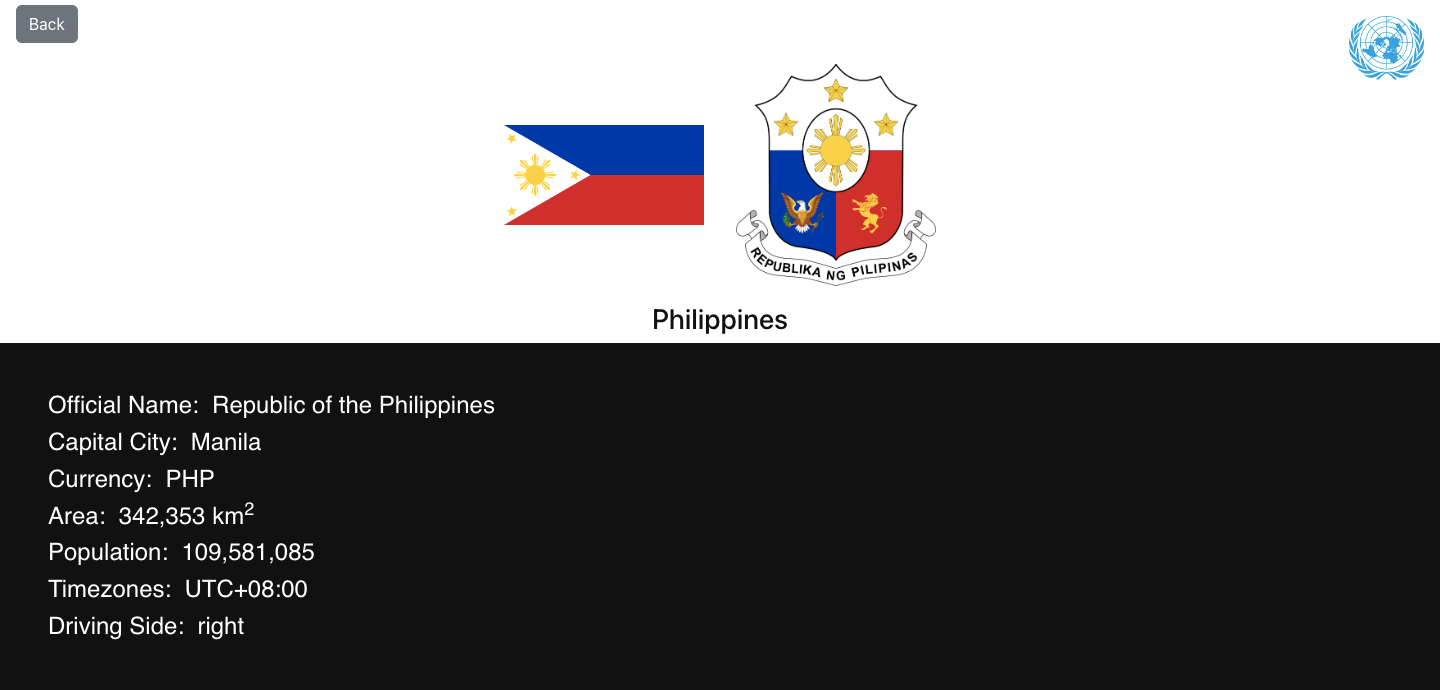
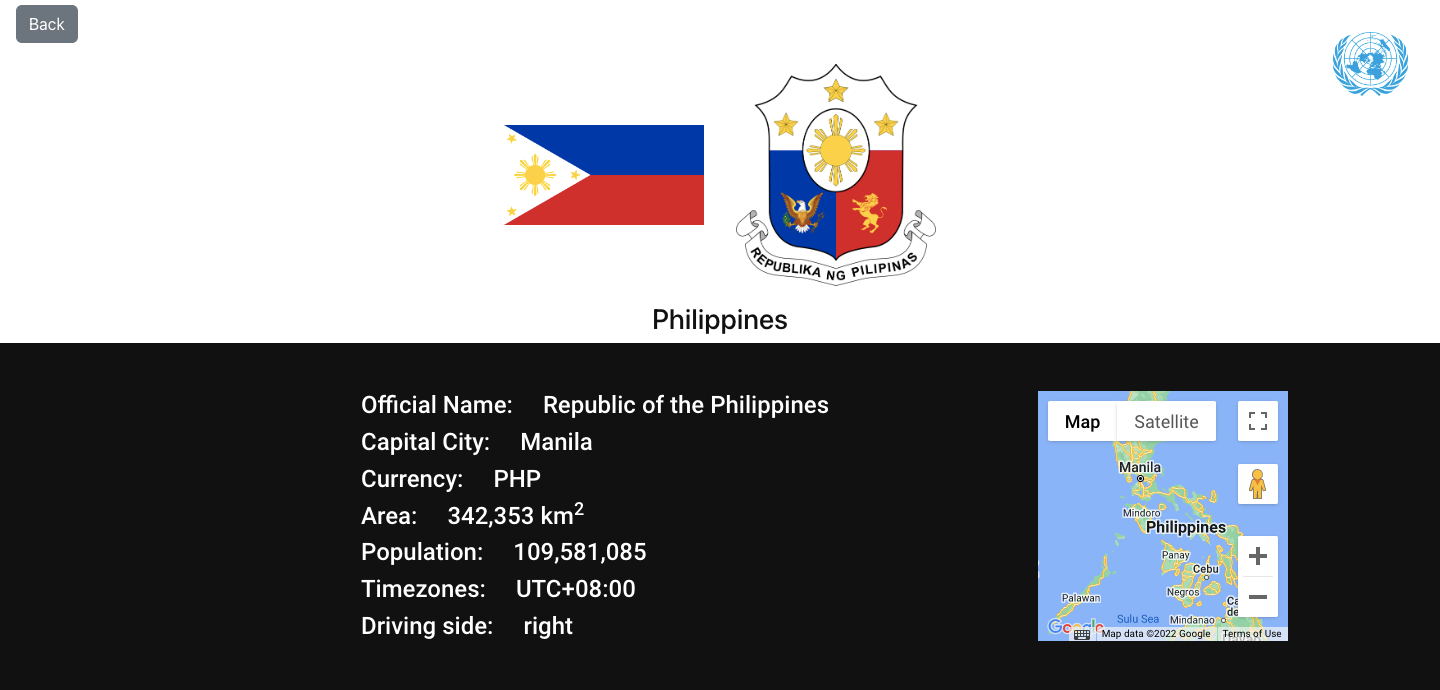
Add Google Maps details page

diff --git a/src/components/Details.js b/src/components/Details.js
@@ -2,11 +2,14 @@ import '../stylesheets/details.scss';
 import { Link, useParams } from 'react-router-dom';
 import { useEffect, useState } from 'react';
 import { nanoid } from 'nanoid';
+import { GoogleMap, useJsApiLoader } from '@react-google-maps/api';
 
 function Details() {
   const params = useParams();
   const [arr, setArr] = useState(null);
   const [curr, setCurr] = useState(null);
+  const [lat, setLat] = useState(null);
+  const [lng, setLng] = useState(null);
 
   useEffect(() => {
     async function fetchData() {
@@ -16,9 +19,23 @@ function Details() {
       const data = await response.json();
       setArr(data);
       setCurr(data[0].currencies);
+      setLat(data[0].latlng[0]);
+      setLng(data[0].latlng[1]);
     }
     fetchData();
   }, [params.country]);
+
+  const containerStyle = {
+    width: '250px',
+    height: '250px',
+  };
+
+  const ApiKey = process.env.REACT_APP_API_KEY;
+
+  const { isLoaded } = useJsApiLoader({
+    id: 'google-map-script',
+    googleMapsApiKey: ApiKey,
+  });
 
   return (
     <>
@@ -40,7 +57,7 @@ function Details() {
                 className="coatOfArms"
               />
             </div>
-            <h3 className="text-center">{arr[0].name.common}</h3>
+            <h3 className="text-center header3">{arr[0].name.common}</h3>
             <div className="details-stats">
               {arr[0].unMember && (
                 <div>
@@ -51,44 +68,57 @@ function Details() {
                   />
                 </div>
               )}
-              <h4>
-                Official Name: &emsp;
-                {arr[0].name.official}
-              </h4>
-              <h4>
-                Capital City: &emsp;
-                {arr[0].capital}
-              </h4>
-              <h4>
-                Currency: &emsp;
-                {Object.keys(curr)[0]}
-              </h4>
-              <h4>
-                Area: &emsp;
-                {arr[0].area.toLocaleString('en-US')}
-                {' '}
-                km
-                <sup>2</sup>
-              </h4>
-              <h4>
-                Population: &emsp;
-                {arr[0].population.toLocaleString('en-US')}
-              </h4>
-              <h4>
-                Timezones: &emsp;
-                {arr[0].timezones.length
-                  && arr[0].timezones.map((tmz) => (
-                    <span key={nanoid()}>
-                      {tmz}
-                      {' '}
+              <div>
+                <h4>
+                  Official Name: &emsp;
+                  {arr[0].name.official}
+                </h4>
+                <h4>
+                  Capital City: &emsp;
+                  {arr[0].capital}
+                </h4>
+                <h4>
+                  Currency: &emsp;
+                  {Object.keys(curr)[0]}
+                </h4>
+                <h4>
+                  Area: &emsp;
+                  {arr[0].area.toLocaleString('en-US')}
+                  {' '}
+                  km
+                  <sup>2</sup>
+                </h4>
+                <h4>
+                  Population: &emsp;
+                  {arr[0].population.toLocaleString('en-US')}
+                </h4>
+                <h4>
+                  Timezones: &emsp;
+                  {arr[0].timezones.length
+                    && arr[0].timezones.map((tmz) => (
+                      <span key={nanoid()}>
+                        {tmz}
+                        {' '}
 &emsp;
-                    </span>
-                  ))}
-              </h4>
-              <h4>
-                Driving side: &emsp;
-                {arr[0].car.side}
-              </h4>
+                      </span>
+                    ))}
+                </h4>
+                <h4>
+                  Driving side: &emsp;
+                  {arr[0].car.side}
+                </h4>
+              </div>
+              <div>
+                {isLoaded ? (
+                  <GoogleMap
+                    mapContainerStyle={containerStyle}
+                    center={{ lat, lng }}
+                    zoom={5}
+                  />
+                ) : (
+                  <h5>Loading map...</h5>
+                )}
+              </div>
             </div>
           </>
         ) : (

diff --git a/src/stylesheets/details.scss b/src/stylesheets/details.scss
@@ -3,6 +3,7 @@
 .details-container {
   height: 100vh;
   color: #111;
+  background-color: #111;
 }
 
 .details-wrapper {
@@ -10,12 +11,14 @@
   justify-content: center;
   align-items: center;
   position: relative;
+  background-color: white;
 }
 
 .details-stats {
   color: white;
   display: flex;
-  flex-direction: column;
+  flex-direction: row;
+  justify-content: space-around;
   background-color: #111;
   font-family: 'Roboto', sans-serif;
   padding: 3rem;
@@ -26,7 +29,6 @@
   position: absolute;
   top: 2rem;
   right: 2rem;
-  color: black;
 }
 
 .flag,
@@ -36,10 +38,15 @@
   margin: 1rem;
 }
 
+.header3 {
+  background-color: white;
+}
+
 .details-header {
   display: flex;
   justify-content: flex-start;
   align-items: center;
   height: 3rem;
   padding: 1rem;
+  background-color: white;
 }

diff --git a/README.md b/README.md
@@ -6,7 +6,7 @@
 
 # CountryApp
 
-![app-screenshot](https://user-images.githubusercontent.com/98527559/201638058-4b4fdc6f-8bf9-4c22-a98c-82242a524d0c.png)
+![app-screenshot](https://user-images.githubusercontent.com/98527559/201697240-c3fe36f1-e189-4d50-9905-9048a9223d0d.png)
 
 ## *React Project*
 
